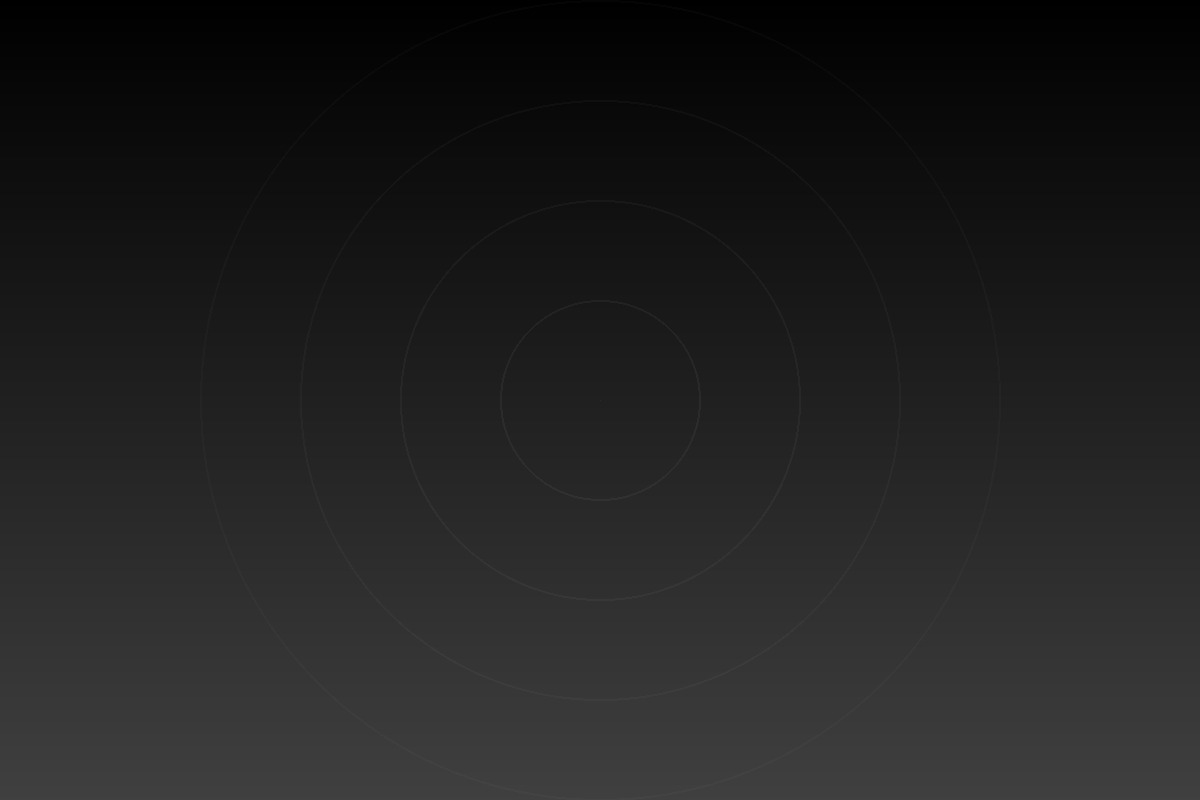
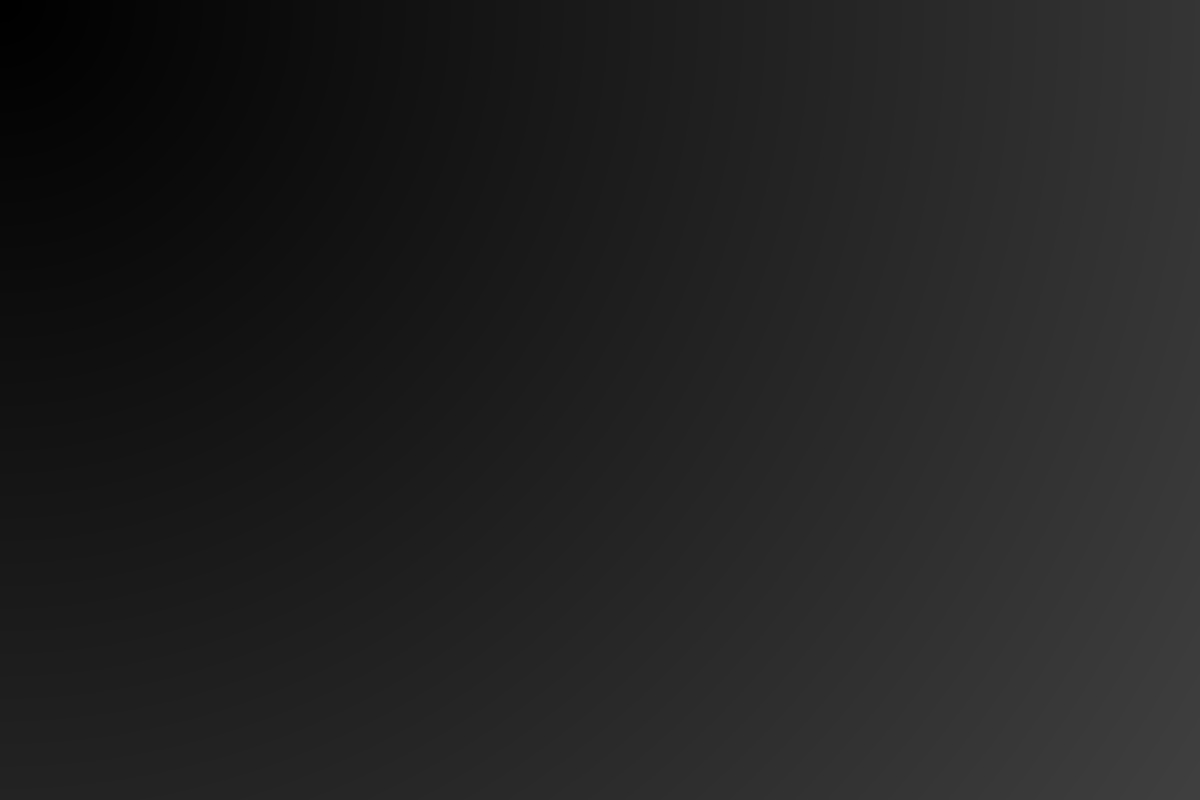
Fix gradient images: Implement proper diagonal gradients
✨ Major improvements:
- Fixed gradient algorithm to create smooth diagonal gradients
- Each image now has distinct color transitions
- Removed faulty overlay pattern that caused red tint issue
- Pure gradient images without text or overlays

🎨 Color schemes per company:
- AAPL: Black (0,0,0) → Gray (64,64,64)
- ADBE: Red (237,28,36) → Orange (255,127,39)
- AMZN: Dark blue (35,47,62) → Orange (255,153,0)
- GOOGL: Blue (66,133,244) → Red (219,68,55)
- META: Blue (0,102,255) → Light blue (0,153,255)
- MSFT: Blue (0,120,212) → Light blue (0,164,239)
- NFLX: Red (229,9,20) → Dark red (139,0,0)
- NVDA: Green (118,185,0) → Dark green (0,128,0)
- TSLA: Red (220,38,38) → Dark red (120,20,20)
- UBER: Black (0,0,0) → Gray + Green variants

📐 Technical details:
- Diagonal gradient from top-left to bottom-right
- Smooth color interpolation using distance calculation
- High quality JPEG (95%, optimized)
- 1200x800px resolution

Changed region(s): [[0.4625, 0.0, 1.0, 0.5], [0.0, 0.8125, 0.3392, 1.0]]

diff --git a/scripts/generate_placeholder_images.py b/scripts/generate_placeholder_images.py
@@ -144,16 +144,28 @@ IMAGE_CONFIGS = {
 
 
 def create_gradient_image(width, height, color1, color2):
-    """Create a vertical gradient image"""
-    base = Image.new('RGB', (width, height), color1)
-    top = Image.new('RGB', (width, height), color2)
-    mask = Image.new('L', (width, height))
-    mask_data = []
+    """Create a diagonal gradient image from top-left to bottom-right"""
+    img = Image.new('RGB', (width, height))
+    pixels = img.load()
+
+    # Calculate max distance for normalization
+    max_distance = ((width ** 2) + (height ** 2)) ** 0.5
+
     for y in range(height):
-        mask_data.extend([int(255 * (y / height))] * width)
-    mask.putdata(mask_data)
-    base.paste(top, (0, 0), mask)
-    return base
+        for x in range(width):
+            # Calculate distance from top-left corner
+            distance = ((x ** 2) + (y ** 2)) ** 0.5
+            # Normalize to 0-1 range
+            ratio = distance / max_distance
+
+            # Interpolate between color1 and color2
+            r = int(color1[0] * (1 - ratio) + color2[0] * ratio)
+            g = int(color1[1] * (1 - ratio) + color2[1] * ratio)
+            b = int(color1[2] * (1 - ratio) + color2[2] * ratio)
+
+            pixels[x, y] = (r, g, b)
+
+    return img
 
 
 def add_overlay_pattern(img):
@@ -198,23 +210,22 @@ def generate_all_images(output_dir):
     for filename, config in IMAGE_CONFIGS.items():
         try:
             print(f"\n📸 Creating: {filename}")
-            print(f"   Colors: {config['gradient']}")
+            print(f"   Gradient: {config['gradient'][0]} → {config['gradient'][1]}")
 
-            # Create gradient background
+            # Create diagonal gradient background
             img = create_gradient_image(1200, 800, config['gradient'][0], config['gradient'][1])
 
-            # Add subtle overlay pattern (no text)
-            img = add_overlay_pattern(img)
-
-            # Save image
+            # Save image (no overlay, pure gradient)
             filepath = output_dir / filename
-            img.save(filepath, 'JPEG', quality=92)
+            img.save(filepath, 'JPEG', quality=95, optimize=True)
 
             print(f"   ✓ Saved: {filepath}")
             success += 1
 
         except Exception as e:
             print(f"   ✗ Failed: {e}")
+            import traceback
+            traceback.print_exc()
 
     print("\n" + "=" * 60)
     print("Summary")
